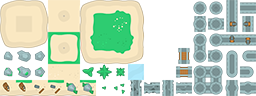
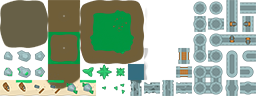
Fixed full screen issue

diff --git a/assets/pirate16x16.tsx b/assets/pirate16x16.tsx
@@ -1,4 +1,4 @@
 <?xml version="1.0" encoding="UTF-8"?>
 <tileset version="1.5" tiledversion="1.7.2" name="pirate16x16" tilewidth="16" tileheight="16" tilecount="96" columns="16">
- <image source="tiles_sheet2.png" width="256" height="96"/>
+ <image source="tiles_sheet2(1).png" width="256" height="96"/>
 </tileset>

diff --git a/core/src/main/java/com/engteam14/yorkpirates/TitleScreen.java b/core/src/main/java/com/engteam14/yorkpirates/TitleScreen.java
@@ -52,7 +52,7 @@ public class TitleScreen extends ScreenAdapter {
 
         Table table = new Table();
         table.setFillParent(true);
-        //table.debug();
+        table.debug();
 
         TextureAtlas atlas;
         atlas = new TextureAtlas(Gdx.files.internal("Skin/YorkPiratesSkin.atlas"));

diff --git a/core/src/main/java/com/engteam14/yorkpirates/YorkPirates.java b/core/src/main/java/com/engteam14/yorkpirates/YorkPirates.java
@@ -25,6 +25,7 @@ public class YorkPirates extends Game {
 	 */
 	@Override
 	public void create () {
+		Gdx.graphics.setVSync(true);
 		camera = new OrthographicCamera();
 		camera.setToOrtho(false, 16*screenToPixelRatio, 9*screenToPixelRatio);
 		batch = new SpriteBatch();
